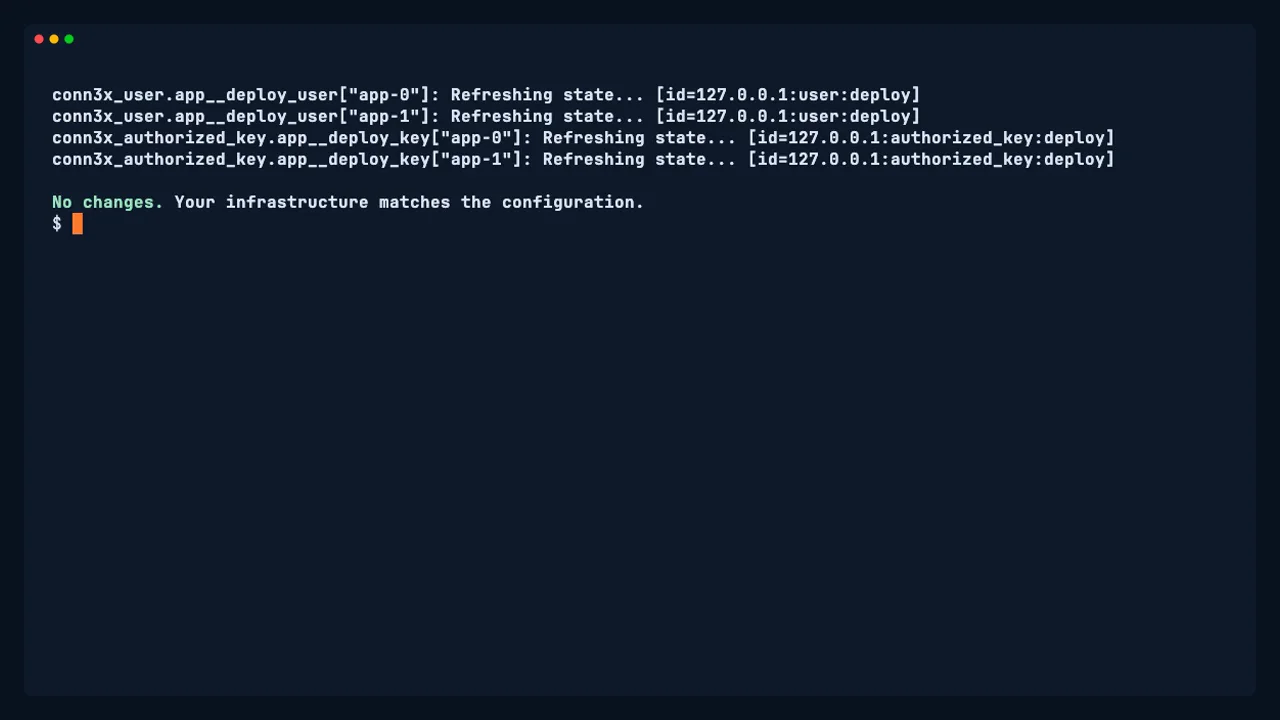
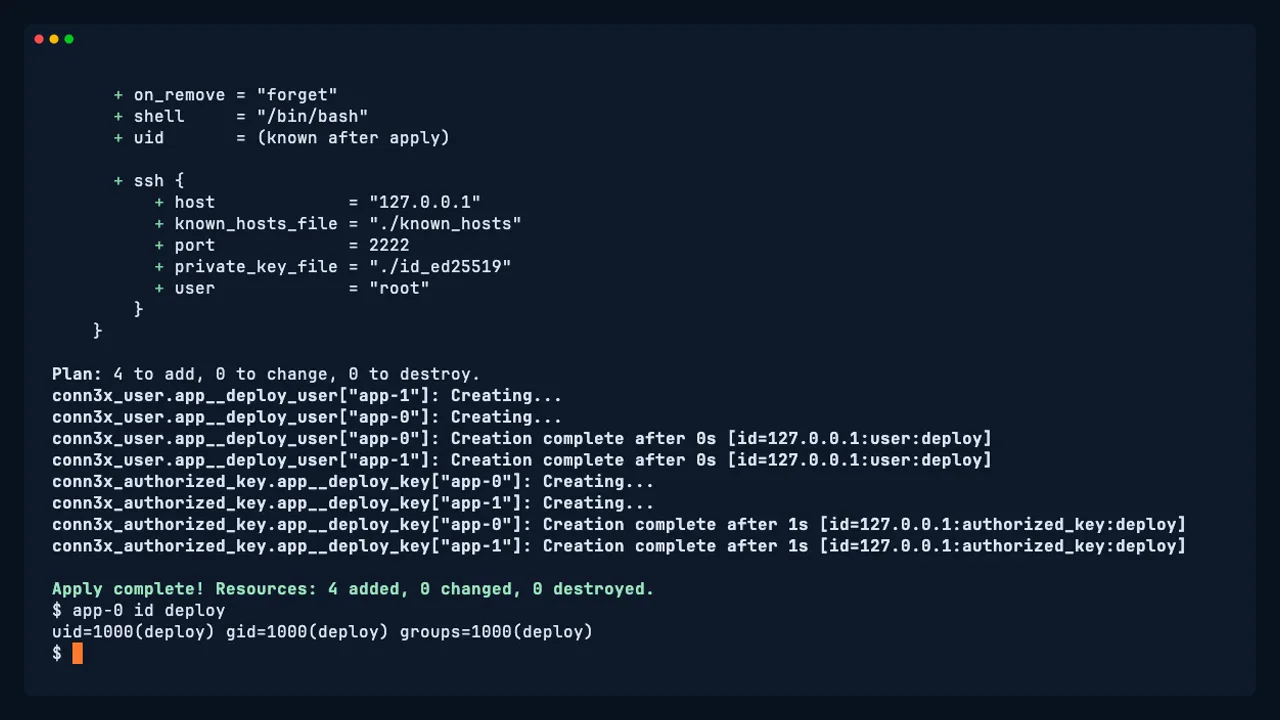
fix: show the finished apply in the clip's poster frame

Changed region(s): [[0.0312, 0.4889, 0.9375, 0.9167], [0.0312, 0.1222, 0.875, 0.4278]]

diff --git a/scripts/post-graphics/why-conn3x/clip/README.md b/scripts/post-graphics/why-conn3x/clip/README.md
@@ -14,5 +14,5 @@ local Rocky Linux 10 containers (the e2e image from `conn3xorg/conn3x`,
 
 ```sh
 ffmpeg -i apply.mp4 -an -c:v libx264 -pix_fmt yuv420p -crf 24 -preset slow -movflags +faststart out.mp4
-ffmpeg -ss 9.6 -i apply.mp4 -frames:v 1 poster.png && cwebp -q 85 poster.png -o apply.webp
+ffmpeg -i apply.mp4 -vf "select=eq(n\\,185)" -frames:v 1 poster.png && cwebp -q 85 poster.png -o apply.webp
 ```
